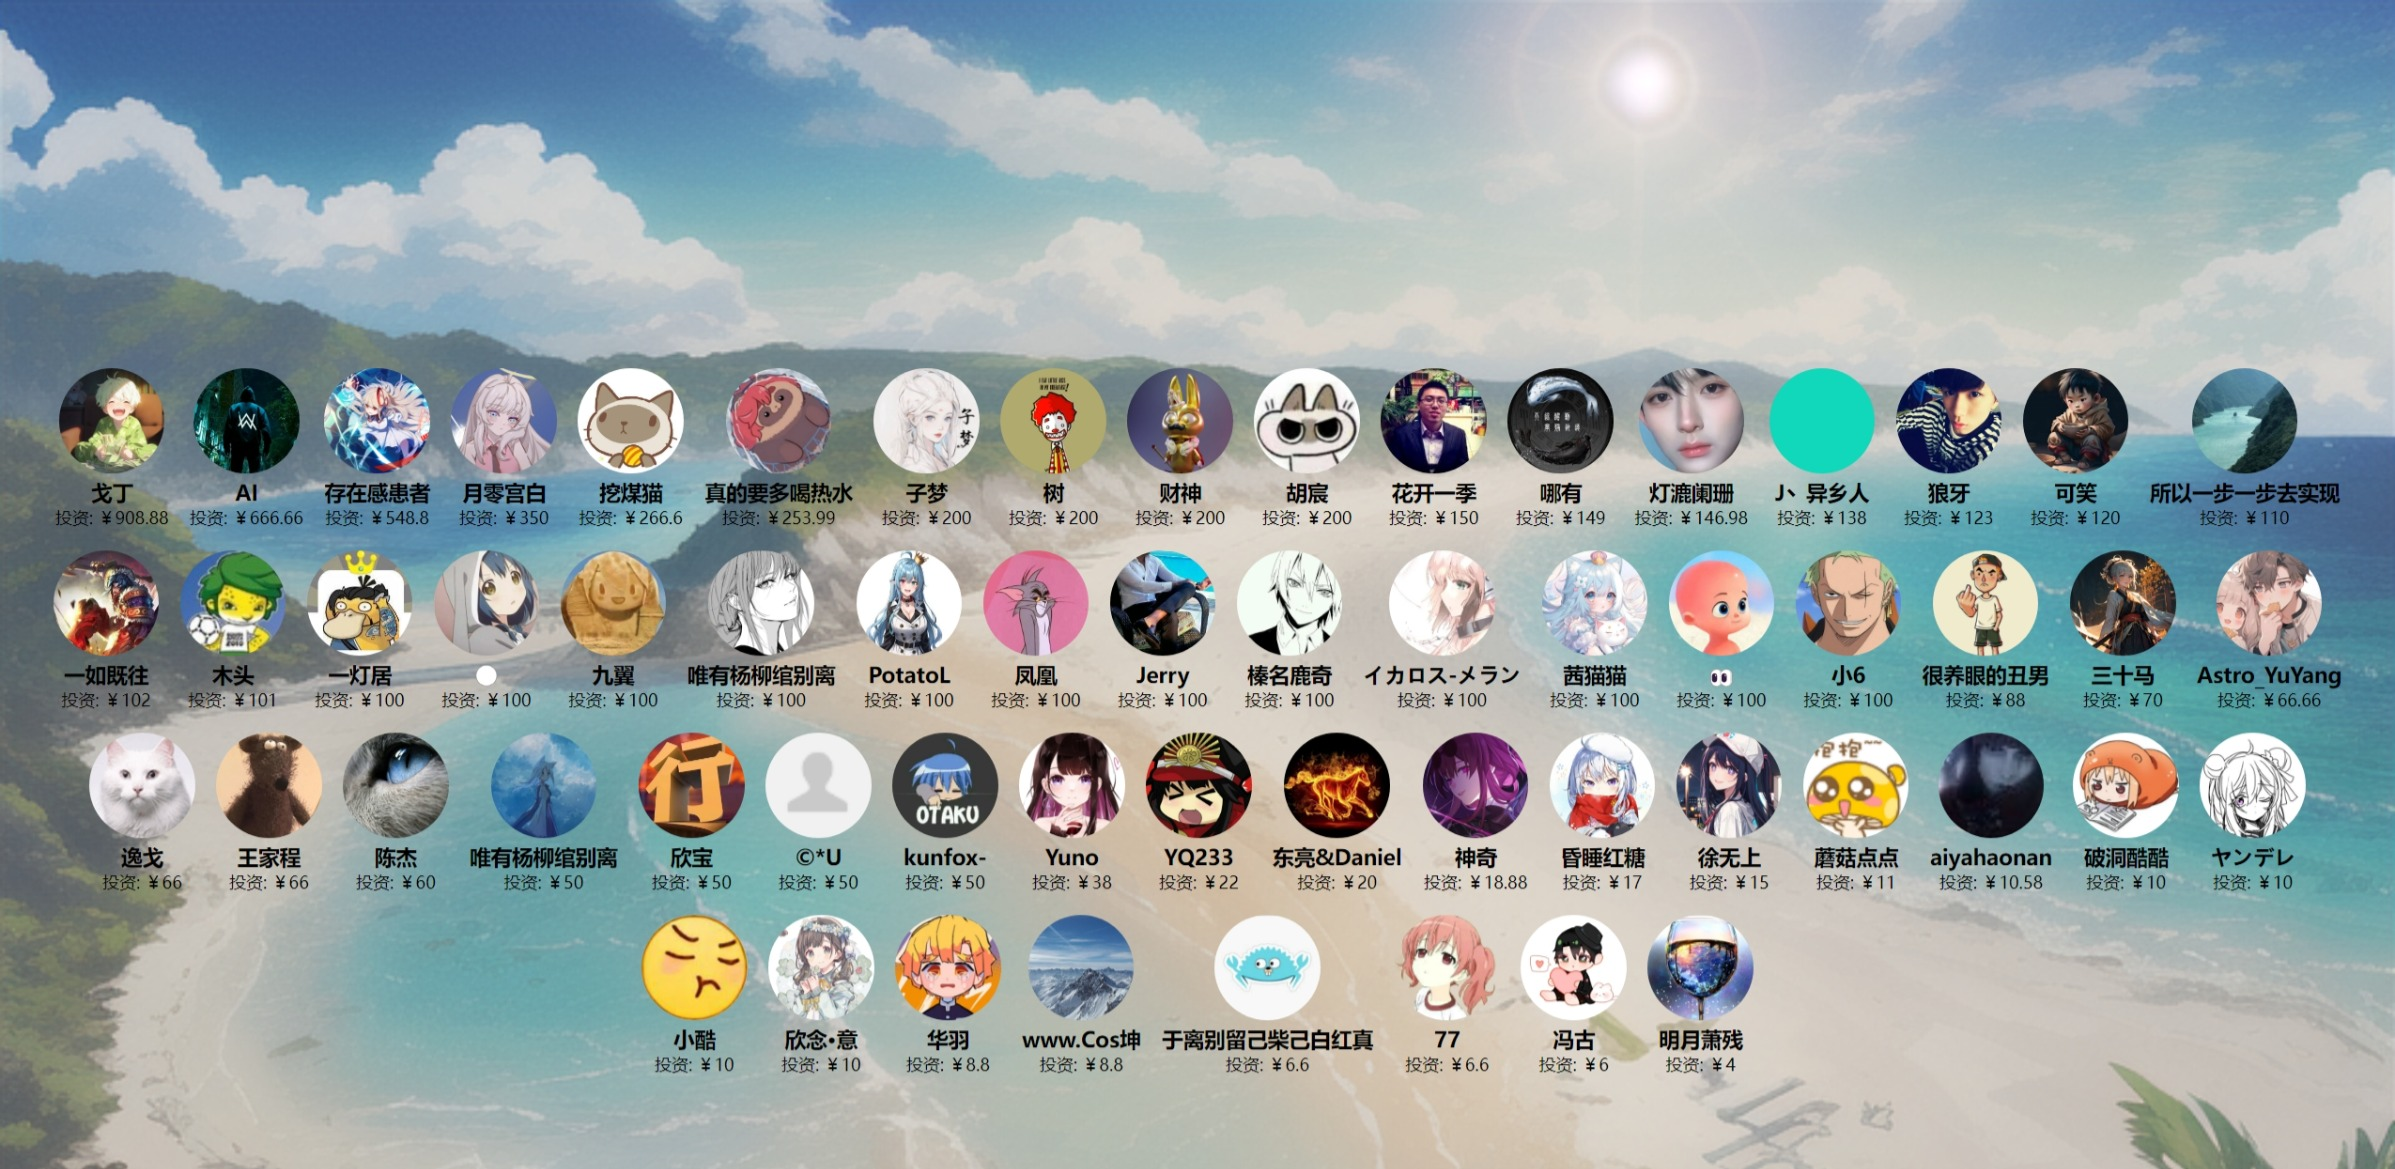
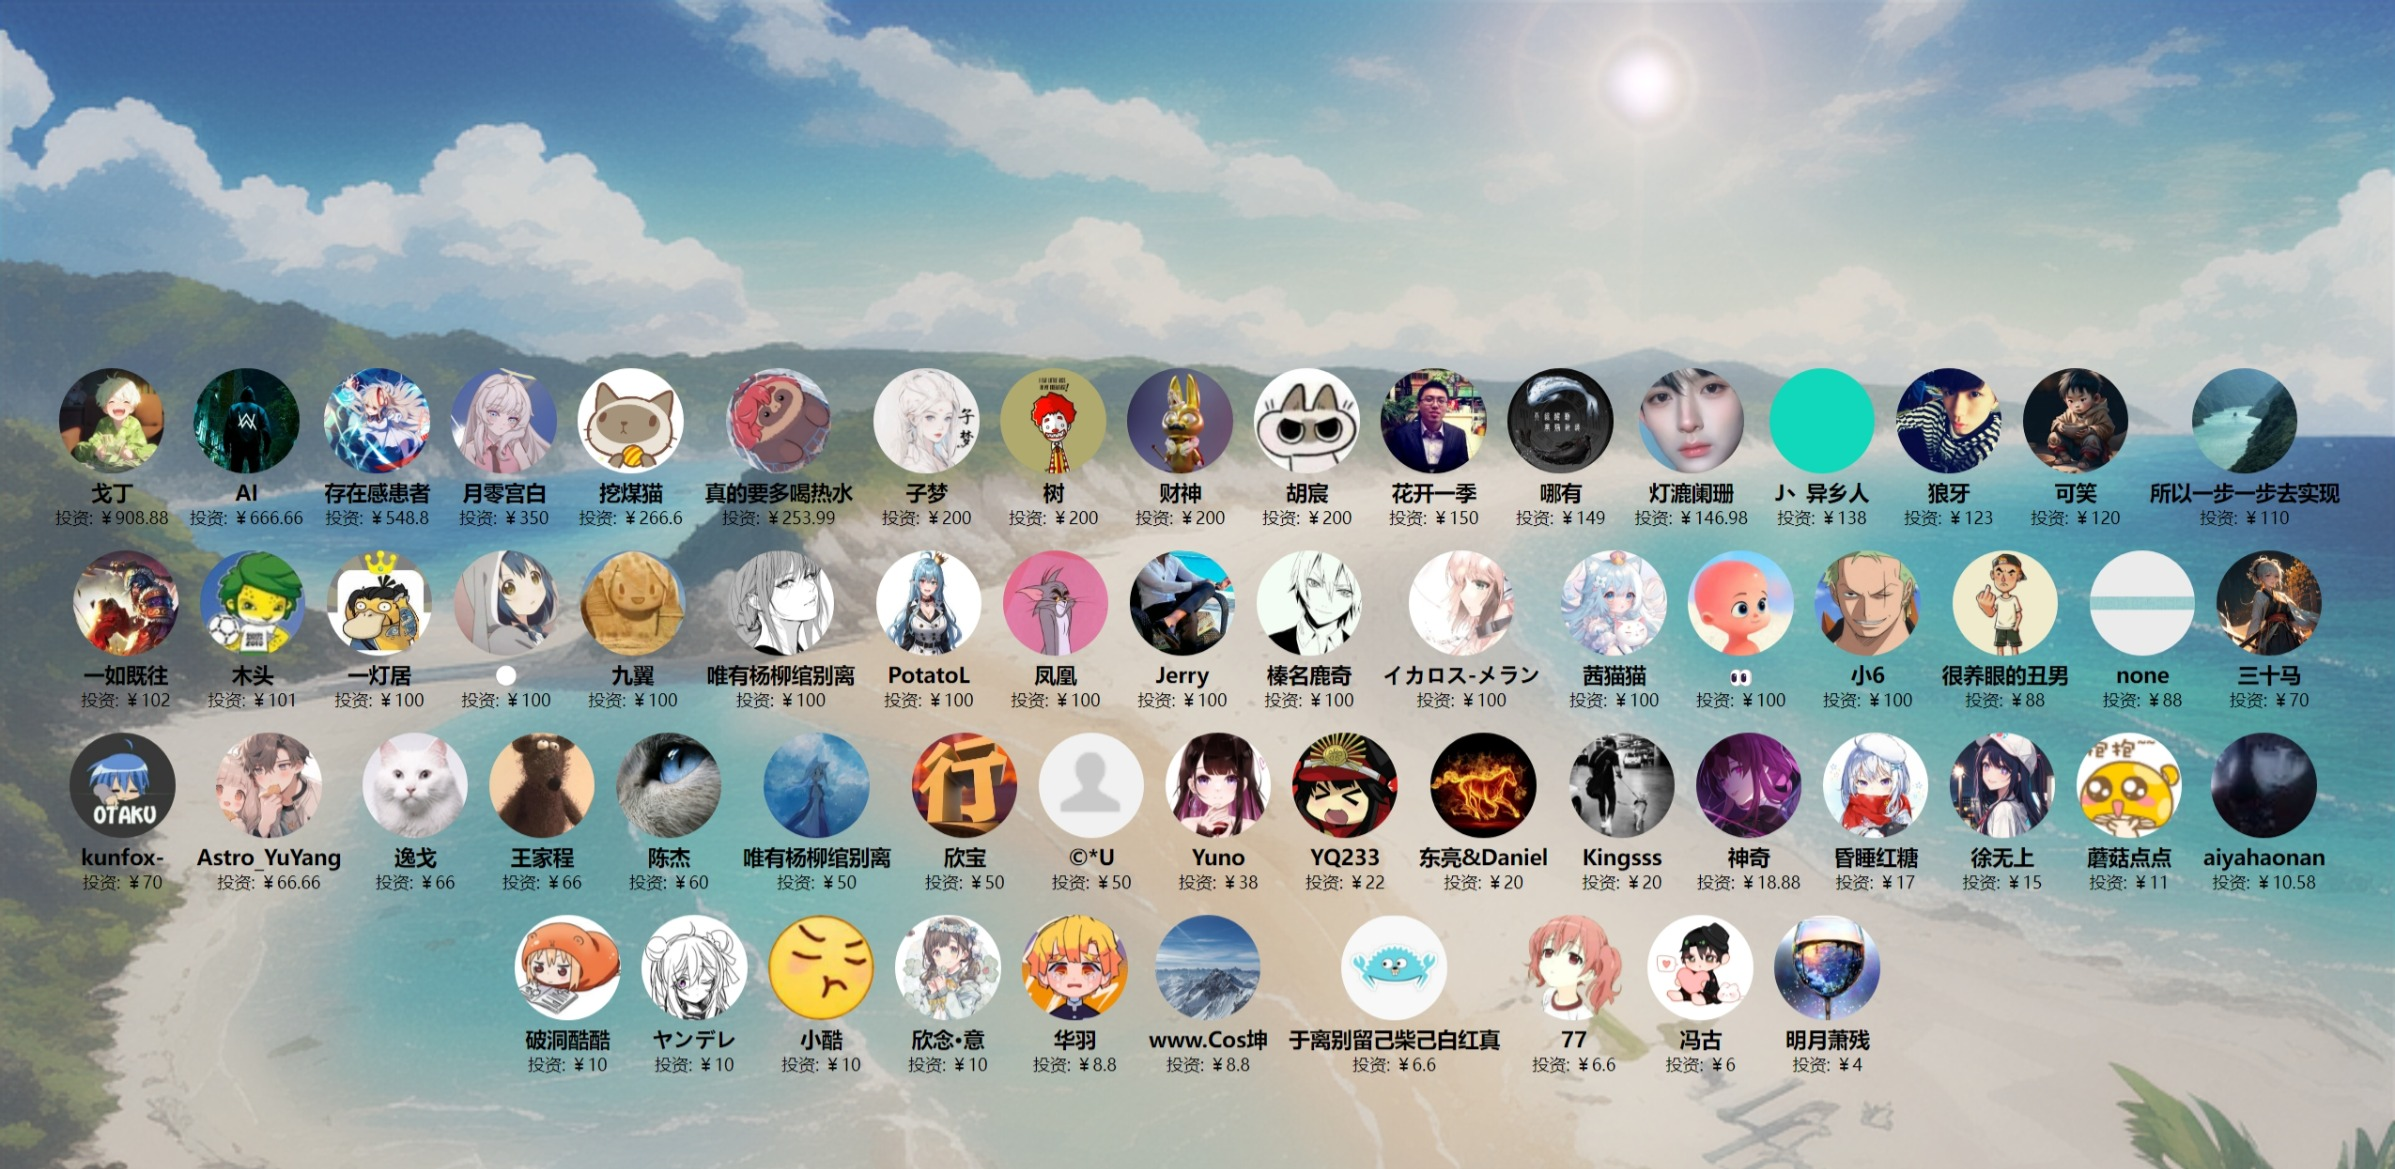
更新投资人

Changed region(s): [[0.0, 0.4619, 0.9887, 0.9239]]

diff --git a/docs/投资人/index.html b/docs/投资人/index.html
@@ -212,8 +212,18 @@
             amount: "￥88"
         },
         {
+            name: "none",
+            avatar: "https://images.cnblogs.com/cnblogs_com/ikaros-521/2328032/o_231201155900_AgAABTM-uTiMo8J3YrpDw4o57-UT6PcJ.png",
+            amount: "￥88"
+        },
+        {
             name: "三十马",
             avatar: "https://images.cnblogs.com/cnblogs_com/ikaros-521/2328032/o_231009135152_QQ%E5%9B%BE%E7%89%8720231009215135.png",
+            amount: "￥70"
+        },
+        {
+            name: "kunfox-",
+            avatar: "https://images.cnblogs.com/cnblogs_com/ikaros-521/2328032/o_230902161301_otaku.jpg",
             amount: "￥70"
         },
         {
@@ -252,11 +262,6 @@
             amount: "￥50"
         },
         {
-            name: "kunfox-",
-            avatar: "https://images.cnblogs.com/cnblogs_com/ikaros-521/2328032/o_230902161301_otaku.jpg",
-            amount: "￥50"
-        },
-        {
             name: "Yuno",
             avatar: "https://images.cnblogs.com/cnblogs_com/ikaros-521/2328032/o_230719132530_QQ%E5%9B%BE%E7%89%8720230719212024.jpg",
             amount: "￥38"
@@ -269,6 +274,11 @@
         {
             name: "东亮&Daniel",
             avatar: "https://images.cnblogs.com/cnblogs_com/ikaros-521/2328032/o_231125123002_QQ%E5%9B%BE%E7%89%8720231125202825.jpg",
+            amount: "￥20"
+        },
+        {
+            name: "Kingsss",
+            avatar: "https://images.cnblogs.com/cnblogs_com/ikaros-521/2328032/o_231201155829_QQ%E5%9B%BE%E7%89%8720231201235446.jpg",
             amount: "￥20"
         },
         {
